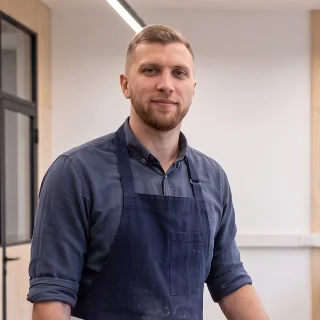
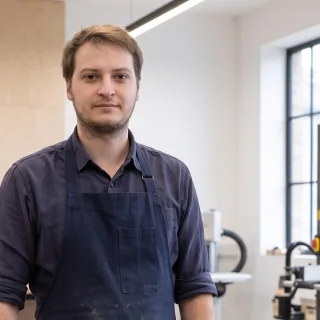
Первый экран: другое лицо на портрете
Прошлый кадр был сделан с лица Ивана, использовать его не разрешили.
Заменён на кадр с лицом Алексея — своё лицо, вопрос согласия закрыт.

Заодно переписана строка рядом с портретом. Раньше она говорила
«инженер приедет и посчитает» — рядом с портретом это читается как
«вот этот человек и есть инженер», а на замеры ездит не он. Теперь
фраза от лица компании: приедем, посчитаем, подберём. Портрет остаётся
живым лицом бренда и ничего лишнего не утверждает.

diff --git a/index.html b/index.html
@@ -98,8 +98,8 @@
       </ul>
 
       <div class="hero__proof">
-        <img class="hero__proof-photo" src="assets/img/ui/master.webp" alt="Инженер «Первого Луча»" loading="lazy" width="320" height="320">
-        <p>Инженер приедет с образцами материалов, посчитает объём парной и подберёт печь.
+        <img class="hero__proof-photo" src="assets/img/ui/master.webp" alt="Сотрудник «Первого Луча» в столярном цехе" loading="lazy" width="320" height="320">
+        <p>Приедем с образцами материалов, посчитаем объём парной и подберём печь.
           Смета и сроки фиксируются в договоре — цена не растёт по ходу работ.</p>
       </div>
 
